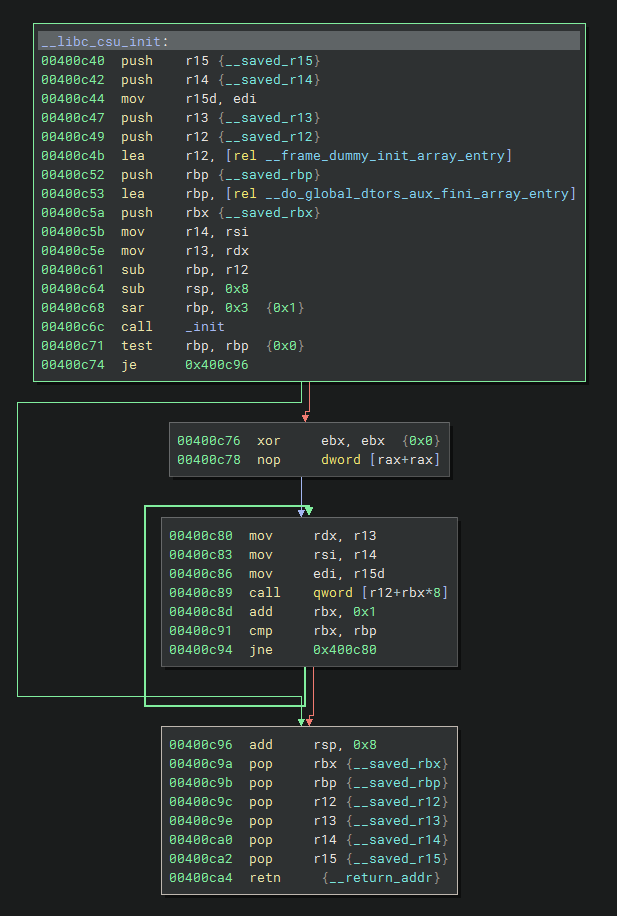
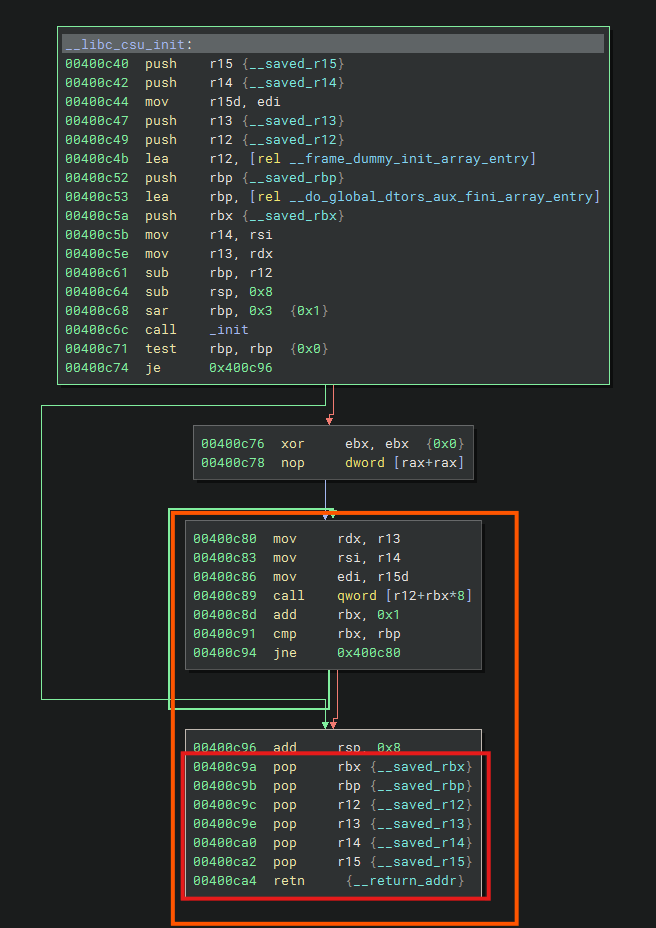
Update csu_init graph image and writeup

Changed region(s): [[0.0616, 0.0, 0.9546, 1.0], [0.5235, 0.4585, 0.7391, 0.5197]]

diff --git a/content/ctf/ehax-womp-womp/index.md b/content/ctf/ehax-womp-womp/index.md
@@ -7,9 +7,9 @@ toc: true
 summary: "Bypassing PIE, stack canaries, and using ret2csu to exploit a buffer overflow."
 ---
 
-Womp Womp is a pwn/binary exploitation challenges where we're given a binary and have to leak addresses to bypass PIE and canary protections. After that, we have to utilize a ROP technique called ret2csu which I was not previously aware about! It was a very fun technique to learn about and explore. Shotout to the [EHAX](https://ehax.in/) team for hosting a great CTF and the challenge authors nrg & the_moon_guy.
+Womp Womp is a [pwn/binary exploitation](https://ctf101.org/binary-exploitation/overview/) challenge where we're given a binary and have to leak addresses to bypass PIE and canary protections. After that, we have to utilize a ROP technique called [ret2csu](https://ir0nstone.gitbook.io/notes/binexp/stack/ret2csu) which I was not previously aware about. It was a very fun technique to learn about and explore! Shotout to the [EHAX](https://ehax.in/) team for hosting a great CTF and the challenge authors nrg & the_moon_guy.
 
-Although I'm still relatively new to pwn, writing about these challenges helps deepen my understanding of the techniques used, so expect more writeups in the future from this category. 
+Although I'm still relatively new to pwn, writing about these challenges helps deepen my understanding of the techniques used, so expect more writeups from this category in the future!
 
 
 ## Binary Checks
@@ -45,7 +45,7 @@ pwn@docker:/ctf$ checksec --file=challenge
 
 Every modern binary mitigation is turned on. NX/DEP means we cannot execute shellcode, Full RELRO means we cannot overwrite GOT entries, we must leak a canary/secret value for buffer overflows, and all addresses are randomized when starting a new process (PIE).
 
-## Bypassing PIE and Canary
+## Reversing
 
 To reverse engineer the vulnerabilities I check out Ghidra's decompilation. Here's the relevant functions that we need to analyze from the challenge binary:
 
@@ -65,9 +65,7 @@ undefined8 main(void)
   finalize_entry();
   return 0;
 }
-```
 
-```c
 void submit_note(void)
 
 {
@@ -87,9 +85,7 @@ void submit_note(void)
   }
   return;
 }
-```
 
-```c
 void review_note(void)
 
 {
@@ -111,9 +107,7 @@ void review_note(void)
   }
   return;
 }
-```
 
-```c
 void finalize_entry(void)
 
 {
@@ -133,7 +127,7 @@ void finalize_entry(void)
 }
 ```
 
-Here's the only function we need to know from `libcoreio.so`
+Here's the only function we need from `libcoreio.so`
 
 ```c
 void emit_report(long param_1,long param_2,long param_3)
@@ -230,15 +224,17 @@ Aborted
 
 I got the stack smashing message because of the canary protection.
 
+## Bypassing PIE & Canary
+
 To leak the canary, we'll need to use the vulnerability inside of the `submit_note()` where it leaks out the value of the stack canary every time since it writes to stdout passed `local_58`'s buffer:
 
 ```c
 write(1,local_58,0x58);
 ```
 
-Since the `local_58` buffer can only hold up to 0x48 bytes, the write syscall leaks about 0x18 bytes of information from adjacent stack addresses
+Since the `local_58` buffer can only hold up to 0x48 bytes, the write syscall leaks about 0x10 bytes of information from adjacent stack addresses outside of `local_58`.
 
-Here's a diagram of the stack inside of that function to visualize what's going on:
+Here's a diagram of the stack frame fir `submit_note()`:
 
 ```
 [ local_58 (0x48 bytes) ]
@@ -247,16 +243,16 @@ Here's a diagram of the stack inside of that function to visualize what's going 
 [ return addr (0x8)     ]
 ```
 
-0x58 - 0x40 = 0x18 bytes of stack leak which will include:
-- 8 Bytes of unused local_58
+0x58 (number of bytes we write to stdout) - 0x40 (our input) = 0x18 bytes of leak which will include:
+- 8 Bytes of unused `local_58`
 - Stack Canary (8 bytes)
-- saved RBP (8 bytes)
+- Saved `$rbp` (8 bytes)
 
 Next, to bypass PIE, we leverage the same kind of vulnerability inside of `review_note()` which leaks other local variables on the stack.
 
-Inside of `review_note`, `local_18` is a pointer to the function on the stack, if we're able to leak that address, then we can calculate the PIE base
+Inside of `review_note()`, `local_18` is a pointer to the function on the stack, if we're able to leak that address, then we can calculate the PIE base.
 
-Here's a diagram of that function:
+Here's a diagram of its stack frame:
 
 ```
 [ local_38 (0x20 bytes)        ]
@@ -266,11 +262,13 @@ Here's a diagram of that function:
 [ return addr (0x8 bytes)      ]
 ```
 
-0x30 - 0x20 = 0x10 bytes of stack leak which will include:
-- local_18 (pointer to `finalize_note`)
-- Stack canary
+0x30 (number of bytes to stdout) - 0x20 (our input)= 0x10 bytes of stack leak which will include:
+- local_18 (pointer to `finalize_note`, 8 bytes)
+- Stack canary (8 bytes)
 
-Since the stack canary for a single process is the same throughout all functions, we only need to use the vulnerability inside of `review_note()` to bypass the canary and PIE. For now, we don't need to use any leakage from `submit_note()` but we'll need to use it later on.
+Since the stack canary for a single process is the same throughout all functions, we only need to use the vulnerability inside of `review_note()` to bypass the canary and PIE. 
+
+For now, we don't need to use any leakage from `submit_note()`, however later on  we'll need to use it to leak its saved `$rbp`.
 
 
 Here's a pwntools script to automate the process of getting the PIE base and canary:
@@ -305,6 +303,8 @@ log.info(f"pie_base   = {pie_base:#x}")
 p.close()
 ```
 
+Running it multiple times:
+
 ```bash
 pwn@docker:/ctf$ python3 leak.py
 [+] Starting local process './challenge': pid 16
@@ -327,15 +327,19 @@ pwn@docker:/ctf$ python3 leak.py
 ```
 
 
-We can confirm we have the correct leakages because subtracting the static offset of `finalize_note()` from the leaked function pointer yields a page-aligned PIE base (lower 12 bits equal to zero), and the leaked canary matches across both functions within the same process and ends with a null byte (`canary & 0xff == 0`), which is the expected structure of a stack canary on x86_64 Linux.
+We can confirm we have the correct leakages because subtracting the static offset of `finalize_note()` from the leaked function pointer gives a page-aligned PIE base (lower 12 bits equal to zero). 
+
+The leaked canary matches across both functions within the same process and ends with a null byte (`canary & 0xff == 0`), which is the expected structure of a stack canary on x86_64 Linux.
+
+We can also confirm by running our script and attaching GDB to the process.
 
 ## ret2csu
 
-After overcoming the protections of the binary our final goal is to use the buffer overflow when sending our final payload to return to the `emit_report()` function with the three specified arguments.
+After overcoming the protections of the binary the final goal is to use the buffer overflow when sending our final payload to return to the `emit_report()` function with the three specified arguments.
 
-Normally, I would jump to an address passed those checks, however `emit_report()` is located in a shared object which is at a completely separate address by ASLR.
+Normally, I would jump to an address passed those checks, however `emit_report()` is located in a shared object at a completely separate address by ASLR.
 
-We'll need to leverage [ROP](https://help.eset.com/glossary/en-US/rop_attack.html) (return oriented programming) to set `$rdi` to 0xdeadbeefdeadbeef, `$rsi` to 0xcafebabecafebabe and `$rdx` to 0xd00df00dd00df00d. Simple enough right?
+We'll need to leverage ROP (return oriented programming) to set `$rdi` to 0xdeadbeefdeadbeef, `$rsi` to 0xcafebabecafebabe and `$rdx` to 0xd00df00dd00df00d. Simple enough right?
 
 ```bash
 pwn@docker:/ctf$ ropper --file=challenge --search="pop rdi"
@@ -369,12 +373,15 @@ pwn@docker:/ctf$ ropper --file=challenge | grep -i rdx
 ```
 
 
-We have gadgets we can utilize for setting our first 2 arguments, however there's no such gadget existing for `$rdx`
+We have gadgets we can utilize for setting the first 2 arguments, however there's no such gadget existing for `$rdx`
 
 I was stuck at this point for a bit, but upon doing some research, I learned that we can use a ROP technique called **ret2csu** also known as "Universal Gadget ROP" that was introduced at Black Hat Asia in 2018.
 
 The basic gist of this technique is that when a binary is compiled with glibc, it contains a function called `__libc_csu_init()` which includes gadgets that tools like Ropgadget and Ropper can't find since they're separated by call instructions rather than ret. If you want to learn more about this technique here's a link to the original paper which explains it better than I could: [ret2csu original paper](https://i.blackhat.com/briefings/asia/2018/asia-18-Marco-return-to-csu-a-new-method-to-bypass-the-64-bit-Linux-ASLR-wp.pdf)
 
+Side Note: Starting from [glibc 2.34](https://lwn.net/Articles/864920/#:~:text=CSU), the CSU has been hardened to remove the useful gadgets.
+
+Let's checkout the disassembly of this function:
 
 ```asm
 pwndbg> disass __libc_csu_init
@@ -420,16 +427,19 @@ Here's Binjas graph view which helped me visualize it better:
 
 ![Binary Ninja graph view of __libc_csu_init](csu-init-graph.png)
 
+The boxed gadgets are what we're making use of inside of our ROP chain with the red representing what I will be calling first and the orange being the second gadget.
 
-The instruction we care about is at `0xc80`, which moves the value of `$r13` into `$rdx`. But to control what's in `$r13`, we first need to use the gadget starting at `0xc9a`, which gives us a pop sequence to load six registers including `$r13`.
+The main instruction we care about is at `0xc80` since it moves a value into `$rdx`. To control what's in `$r13`, we first use the gadget at `0xc9a` hence why we have the gadget placements the way they are.
 
-However, after the call at `0xc80`, the code increments `$rbx` and checks if it equals `rbp`. If they don't match, execution jumps back to `0xc80` and we're stuck in an infinite loop.
+After the first gadget completes, we return to our second gadget where it sets `$rdx` to the value we wanted. The rest of the assembly inside of the function is then completed since it hasn't hit a return statement yet. The `call` at `0xc89` is another problem we'll have to face since it dereferences an address set by `$r12` and `$rbx`. To bypass this, we control `$rbx` and `$r12` directly from the first gadget's pop sequence. By setting `$rbx` to 0, the dereference simplifies to `call [r12]`.
 
-Since `$rbx` is one of the registers popped in the sequence starting at `0xc9a`, we first set it to 0 and `rbp` to 1 in our first gadget, so after the single call, `$rbx` becomes 1, which will make the loop exit cleanly.
+We then set `$r12` to point at the start of our overflow buffer, where we pre-plant the address of a ret gadget. To do this we use the leak from our first input to obtain `main()`'s saved `$rbp`, then subtract the fixed offset to the start of `finalize_entry()`'s input buffer. The call dereferences that address, reads the ret gadget address we planted there, and jumps to it which will immediately returns back into the CSU loop.
 
-Another constraint is the call dereference of `$r12` at `0xc89`, that reads a function pointer from that memory address, and jumps to it. We'll want to plant a return gadget address at the start of our buffer, point `$r12` at that location, and the call simply hits ret and returns straight back into the chain. To do this, I leveraged the leak from `submit_note()` and calculated the offset to a return gadget.
+Another constraint exists at `0xc91`, since we may enter an infinite loop if we don't set the values of `$rbx` and `$rbp` correctly. We need to make sure that we set `$rbp` to 0 and `$rbp` to 1 since `$rbx` will be incremented by 1 before their comparison.
 
-Here's a full visualization of the ROP chain:
+Note: `$rbx` must be equal to 0 since the call at `0xc89` also relies on it
+
+That might've been very confusing so here's a full visualization of the ROP chain:
 
 ![ROP chain visualization](rop-chain.png)
 
